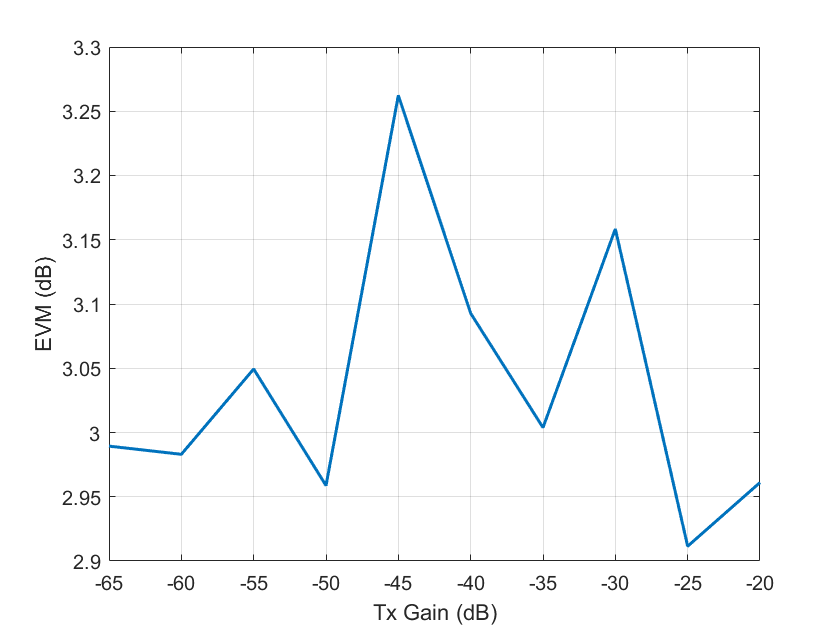
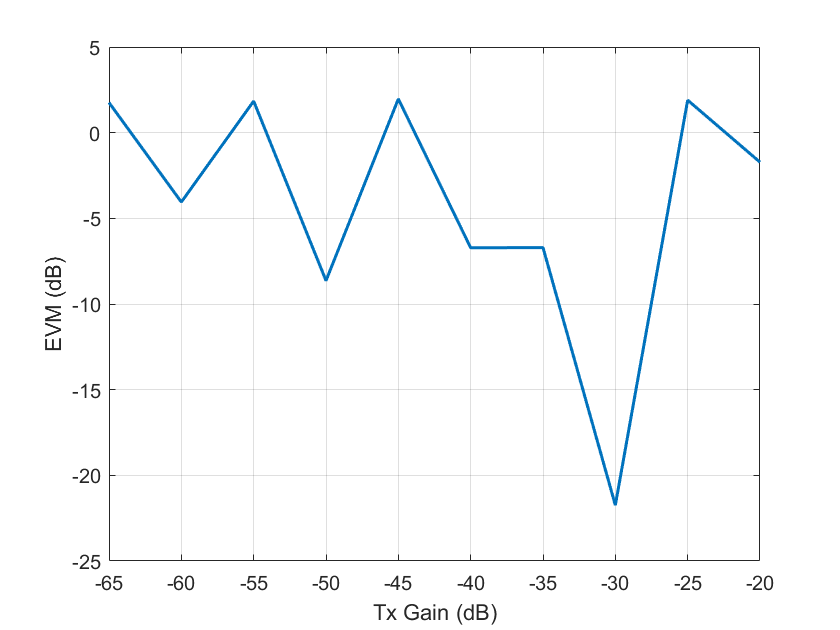
Saving work

diff --git a/5/code/plutoTimingSync.m b/5/code/plutoTimingSync.m
@@ -1,105 +1,130 @@
-% User tunable (samplesPerSymbol>=decimation)
-samplesPerSymbol = 8; decimation = 4;
-frameSize = 2^16;
-useDspkMod = true;
-% Gain on transmitter
+%% Clean Workspace
+clear;
+clc;
+%% Setup path
+addpath('./timingCorrection')
+%% System Parameters
+samplesPerSymbol = 8;
+decimation = 4;
+frameSize = 2^14;
+samplesPerFrame = frameSize*samplesPerSymbol;
 txGain = -65:5:-20;
-evm_dB = zeros(size(txGain));
-raw_evm_dB = zeros(size(txGain));
+%% Synchronizer Configuration
+useBuiltInSync = true;
+correctAmplitude = true;
+showConstellations = false;
+useDspkMod = true;
+%% Select Symbol Synchronizer
+if useBuiltInSync
+    SymbolSynchronizer = @comm.SymbolSynchronizer;
+else
+    SymbolSynchronizer = @SymbolSynchronizer;
+end
+%% Visuals
+cdPre = comm.ConstellationDiagram('ReferenceConstellation', [-1 1],...
+    'Name','Baseband');
+cdPost = comm.ConstellationDiagram('ReferenceConstellation', [-1 1],...
+    'Name','Baseband after Timing Sync');
+cdPre.Position(1) = 50;
+cdPost.Position(1) = cdPre.Position(1)+cdPre.Position(3)+10; % Place side by side
+%% Initialize Output Arrays
+corrEvm_dB = zeros(size(txGain));
+initEvm_dB = zeros(size(txGain));
+timingErr = zeros(size(txGain));
 for i = 1:length(txGain)
     %% System set up
     % Set up radio
-    tx = sdrtx('Pluto','SamplesPerFrame',frameSize*8,'Gain',txGain(i));
-    rx = sdrrx('Pluto','SamplesPerFrame',frameSize*8,'OutputDataType','double','GainSource', 'Manual');
-    % Create binary data for 48, 2-bit symbols
-    data = randi([0 1],2^16,1);
-    % Modulate data
-    mod = comm.DBPSKModulator(); %QPSKModulator('BitInput',true);
+    tx = sdrtx('Pluto','SamplesPerFrame',samplesPerFrame,'Gain',txGain(i));
+    rx = sdrrx('Pluto','SamplesPerFrame',4*samplesPerFrame,...
+        'OutputDataType','double','GainSource', 'Manual');
+    %% Create binary data for symbols
+    data = randi([0 1],frameSize,1);
+    %% Modulate data
+    mod = comm.DBPSKModulator();
     modData = complex(mod(data));
-    % Set up filters
+    %% Set up filters
     rctFilt = comm.RaisedCosineTransmitFilter( ...
         'OutputSamplesPerSymbol', samplesPerSymbol);
     rcrFilt = comm.RaisedCosineReceiveFilter( ...
         'InputSamplesPerSymbol',  samplesPerSymbol, ...
         'DecimationFactor',       decimation);
-    % Pass data through radio
+    %% Pass data through radio
     tx.transmitRepeat(rctFilt(modData));
     data = rcrFilt(rx());
-    meanPwr = mean(data(4000:end).*conj(data(4000:end)));
-    10*log10(meanPwr)
-    data = data/sqrt(meanPwr);
-    % Set up visualization and delay objects
-    VFD = dsp.VariableFractionalDelay;
-    cdPre = comm.ConstellationDiagram('ReferenceConstellation', [-1 1],...
-        'Name','Baseband');
-    cdPost = comm.ConstellationDiagram('ReferenceConstellation', [-1 1],...
-        'Name','Baseband after Timing Sync');
-    cdPre.Position(1) = 50;
-    cdPost.Position(1) = cdPre.Position(1)+cdPre.Position(3)+10;% Place side by side
-    % Get the oversample rate
-    OSR = samplesPerSymbol/decimation;
-    % Run a zero-gain boxcar filter prior to decimation
-    rxRaw = data(1:2:end);
-    ccOut = xcorr(modData, rxRaw);
-    [~, maxIdx] = max(abs(ccOut));
-    refDly = floor(length(ccOut)/2) + 1 - maxIdx;
-    if refDly < 0
-        refDly = refDly + length(rxSync);
+    %% Perform amplitude correction
+    if correctAmplitude
+        agcIndex = (frameSize+1):(2*frameSize);
+        meanPwr = mean(data(agcIndex).*conj(data(agcIndex)));
+        data = data/sqrt(meanPwr);
     end
-    rxRaw = rxRaw((dly+1):end);
-    % o = sum(reshape(data,OSR,[]))/OSR;
-    % Plot data with no delay
-    symbolSync = comm.SymbolSynchronizer();
-    [rxSync,~] = symbolSync(data);
-    ccOut = xcorr(modData, rxSync);
-    [~, maxIdx] = max(abs(ccOut));
-    dly = floor(length(ccOut)/2) + 1 - maxIdx;
-    if dly < 0
-        dly = dly + length(rxSync);
-    end
+    %% Get data prior to timing sync
+    rxInit = data(1:2:end);
+    %% Match Delay of Signal
+    ccOut = xcorr(rxInit,modData);
+    midPoint = (length(ccOut)+1)/2;
+    ccOut = ccOut(midPoint:end);
+    searchIdx = (frameSize+1):(2*frameSize);
+    [~, maxIdx] = max(abs(ccOut(searchIdx)));
+    dly = maxIdx - 1;
+    rxInit = rxInit((dly+1):end);
+    %% Symbol Synchronizer
+    symbolSync = SymbolSynchronizer(...
+        SamplesPerSymbol=2,...
+        NormalizedLoopBandwidth=0.01, ...
+        DetectorGain=5.4,...
+        DampingFactor=1.0,...
+        TimingErrorDetector="Zero-Crossing (decision-directed)");
+    [rxSync,err] = symbolSync(data);
+    %% Save Timing Error
+    stableIdx = (length(err)/2+1):length(err);
+    timingErr(i) = mean(err(stableIdx));
+    %% Match Delay of Signal
+    ccOut = xcorr(rxSync,modData);
+    midPoint = (length(ccOut)+1)/2;
+    ccOut = ccOut(midPoint:end);
+    searchIdx = (frameSize+1):(2*frameSize);
+    [~, maxIdx] = max(abs(ccOut(searchIdx)));
+    dly = maxIdx - 1;
     rxSync = rxSync((dly+1):end);
-    % Grab end of data where AGC has converged
-    rxRaw = rxRaw(2000:end);
-    rxSync = rxSync(2000:end);
-    modData = modData(2000:end);
+    %% Extract Symbols from a Single Frame
+    rxSync = rxSync(1:frameSize);
+    rxInit = rxInit(1:frameSize);
+    modData = modData(1:frameSize);
+    %% Perform Differential Modulation
     if useDspkMod
-        rxRaw = rxRaw(2:end).*exp(-1i*angle(rxRaw(1:(end-1))));
+        rxInit = rxInit(2:end).*exp(-1i*angle(rxInit(1:(end-1))));
         rxSync = rxSync(2:end).*exp(-1i*angle(rxSync(1:(end-1))));
         modData = modData(2:end).*exp(-1i*angle(modData(1:(end-1))));
     end
-    minSize = min([length(rxSync),length(rxRaw),length(modData)]);
-    rxSync = rxSync(1:minSize);
-    rxRaw = rxRaw(1:minSize);
-    modData = modData(1:minSize);
-    % cdPre(rxRaw(:));
-    % cdPost(rxSync(:));
-    evm = comm.EVM();
-    evm_dB(i) = 20*log10(evm(modData,rxSync)/100);
-    if evm_dB(i) > -3
-        keyboard;
+    %% Display Constellation
+    if showConstellations
+        % Plot constellations
+        cdPre(rxInit);
+        cdPost(rxSync);
+        pause(0.1);
     end
-    raw_evm_dB(i) = 20*log10(evm(modData,rxRaw)/100);
-    % %% Process received data for timing offset
-    % for index = 0:300
-    %     % Delay signal
-    %     tau_hat = index/50;
-    %     delayedsig = VFD(data, tau_hat);
-    %     % Linear interpolation
-    %     o = sum(reshape(delayedsig,OSR,[]))/OSR;
-    %     % Visualize constellation
-    %     cd(o(:));
-    %     pause(0.1);
-    % end
+    %% Compute Error Vector Magnitude
+    evm = comm.EVM();
+    corrEvm_dB(i) = 20*log10(evm(modData,rxSync)/100);
+    initEvm_dB(i) = 20*log10(evm(modData,rxInit)/100);
 end
 figure(1);
 clf;
-plot(txGain, evm_dB,'LineWidth',1.5);
+plot(txGain, initEvm_dB, 'LineWidth',1.5);
 grid on;
 xlabel('Tx Gain (dB)');
 ylabel('EVM (dB)')
 figure(2);
 clf;
-plot(txGain, raw_evm_dB,'LineWidth',1.5);
+plot(txGain, corrEvm_dB, 'LineWidth',1.5);
 grid on;
 xlabel('Tx Gain (dB)');
 ylabel('EVM (dB)')
+figure(3);
+clf;
+plot(txGain, timingErr, 'LineWidth',1.5);
+grid on;
+xlabel('Tx Gain (dB)');
+ylabel('Fractional Delay');
+%% Reset path
+rmpath('./timingCorrection')

diff --git a/5/lab_report.tex b/5/lab_report.tex
@@ -297,6 +297,7 @@ In this section, we examine the effect of timing error. We specifically capture 
 \noindent Before timing compensation, the signal is sampled at non-ideal points, resulting in increased constellation point errors. These increased errors create large clustering patterns in the constellation. After correcting for these timing errors, the errors in the constellation are reduced. However, our constellation remains titled. This tilt occurs due to a phase offset in the transmit and receive oscillators. Regardless of what we do with the timing compensation, this phase offset will persist.
 
 \subsection{Symbol Timing Compensation}
+\label{section::symbol_timing_compensation}
 
 \subsubsection{Custom Implementation}
 
@@ -466,6 +467,7 @@ Comparing the plots, we see that the EVM is substantially lower after timing com
 Compared to our results with BPSK modulation, we see that the EVM with timing compensation has substantially improved, getting close to the no phase offset case. At low SNRs, the EVM is slightly worse because we use noisy samples in our differential demodulation.
 
 \subsection{Adding Pieces Together}
+\label{section::adding_pieces_together}
 
 In this section, we review the timing recovery circuit and the sample rates of each of its blocks. A block diagram of the timing recovery circuit is included in Figure \ref{fig::timing_recovery_block_diagram_2}. Our timing recovery circuit (with the exception of the "asynchronous FIFO" interface) runs at a sample rate of $2/T_s$, where $T_s$ is the symbol duration. As a result, our receive filter must output samples at twice the symbol rate.
 
@@ -559,7 +561,31 @@ Comparing the results of both Figures, we see that the timing compensation logic
 
 \subsection{Testing on Hardware}
 
-In this section, we perform timing compensation with the PlutoSDR. We start by transmitting a DBPSK reference signal, so we do not have to worry about the phase offset that we observed in Figure \ref{fig::pluto_constellation_raw}.
+In this section, we perform timing compensation with the PlutoSDR. We start by transmitting BPSK symbols. The resulting constellations before and after timing compensation are included in Figure \ref{fig::pluto_constellations_no_comp}.
+
+\begin{figure}[H]
+	\centerline{\fbox{\includegraphics[width=0.7\textwidth]{pluto_constellations_no_comp.png}}}
+	\caption{Constellations Collected with PlutoSDR before and after Timing Compensation}
+	\label{fig::pluto_constellations_no_comp}
+\end{figure}
+
+\noindent Examining the constellations, we observe time, phase, and frequency offsets. The timing compensation only corrects for the timing offsets. However, the phase and frequency offsets still persist. We can use DBPSK modulation to get rid of the phase offsets. The constellations after differential demodulation are shown in Figure \ref{fig::pluto_constellations_dbpsk}.
+
+\begin{figure}[H]
+	\centerline{\fbox{\includegraphics[width=0.7\textwidth]{pluto_constellations_dbpsk.png}}}
+	\caption{Constellations Collected with PlutoSDR using Differential Demodulation}
+	\label{fig::pluto_constellations_dbpsk}
+\end{figure}
+
+\noindent Compared to Figure \ref{fig::pluto_constellations_no_comp}, we see that the differential demodulation resolve the phase offsets. Because our frequency offsets are small, the differential demodulation effectively handles them as well. One additional problem, we observe on hardware but not in simulation is the amplitude of our signal being less than 1. For phase demodulation, this has no impact on the BER. However, it can significantly distort our EVM metric. To compensate for this, we scale our receive data, so it has an average power of 1. Our constellations after performing this scaling are shown in Figure \ref{fig::pluto_constellations_dbpsk_amp_comp}.
+
+\begin{figure}[H]
+	\centerline{\fbox{\includegraphics[width=0.7\textwidth]{pluto_constellations_dbpsk_amp_comp.png}}}
+	\caption{Constellations Collected with PlutoSDR after Amplitude Correction}
+	\label{fig::pluto_constellations_dbpsk_amp_comp}
+\end{figure}
+
+\noindent With amplitude correction, differential demodulation, and timing compensation, the constellation looks as we would expect. We can now measure the EVM. To produce results comparable to Sections \ref{section::symbol_timing_compensation} and \ref{section::adding_pieces_together}, we can sweep the PlutoSDR transmitter gain to modify the SNR of the signal. The EVM before timing compensation is shown in Figure \ref{fig::pluto_evm_no_comp} and the EVM after timing compensation is shown in Figure \ref{fig::pluto_evm}.
 
 \begin{figure}[H]
 	\centerline{\fbox{\includegraphics[width=0.5\textwidth]{pluto_evm_no_comp.png}}}

diff --git a/5/code/simTimingSync.m b/5/code/simTimingSync.m
@@ -34,7 +34,7 @@ cdPre = comm.ConstellationDiagram('ReferenceConstellation', [-1 1],...
 cdPost = comm.ConstellationDiagram('ReferenceConstellation', [-1 1],...
     'Name','Baseband after Timing Offset');
 cdPre.Position(1) = 50;
-cdPost.Position(1) = cdPre.Position(1)+cdPre.Position(3)+10;
+cdPost.Position(1) = cdPre.Position(1)+cdPre.Position(3)+10; % Place side by side
 %% Generate symbols
 data = randi([0 1], numSamples, 1);
 mod = comm.DBPSKModulator();
